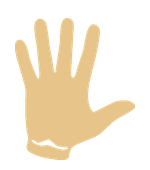
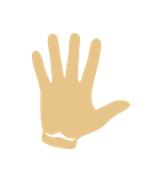
Dłoń: mniejsza i wyśrodkowana + usunięta stara poświata płatka na hover
Nowa dłoń dotykała lewej krawędzi swojego pola przy nadgarstku —
zmniejszona (większy margines PAD_X/PAD_Y) i przesunięta, żeby faktycznie
wyśrodkować wizualny środek ciężkości kształtu (kciuk wybrzusza się w
prawo, więc idealnie wyśrodkowany bounding box wygląda przesunięty
w lewo). Druga poprawka: hiromancja miała ten sam problem co wcześniej
astrologia — glow-hiromancja.png (poświata wnętrza STAREGO piktogramu)
na hover dawała widoczną szarą plamę na przezroczystej dziurze po
wyciętej dłoni. Wyłączona z renderowania, tak jak astrologia — hover-
feedback daje już puls icon-hiromancja przez PIKTOGRAMY_PULSUJACE.

Changed region(s): [[0.08, 0.0882, 0.9067, 0.9412], [0.72, 0.5882, 0.8, 0.6176]]

diff --git a/components/KoloKarmy.tsx b/components/KoloKarmy.tsx
@@ -168,11 +168,12 @@ export default function KoloKarmy({ ukonczone = WSZYSTKIE_SYSTEMY }: { ukonczone
       ))}
       <MoonStars box={SEGMENT_GAPY.astrologia} zlote={ukonczone.has("astrologia")} puls={aktywny === "astrologia"} />
 
-      {/* poświata pól o nieregularnym kształcie — astrologia pominięta: ta
-          maska to flood-fill WNĘTRZA starego kompasu (już wyciętego z bazy),
-          na przezroczystej dziurze dawała widoczny „cień"; hover-feedback
-          dla astrologii daje teraz puls <MoonStars> (patrz wyżej) */}
-      {[...KSZTALTNE].filter((id) => id !== "astrologia").map((id) => (
+      {/* poświata pól o nieregularnym kształcie — astrologia i hiromancja
+          pominięte: te maski to flood-fill WNĘTRZA starych piktogramów
+          (kompas/dłoń, już wyciętych z bazy), na przezroczystej dziurze
+          dawały widoczny „cień"; hover-feedback dla obu daje teraz puls
+          (MoonStars / icon-hiromancja przez PIKTOGRAMY_PULSUJACE) */}
+      {[...KSZTALTNE].filter((id) => id !== "astrologia" && id !== "hiromancja").map((id) => (
         <img key={`glow-${id}`} src={`/brand/glow-${id}.png`} alt=""
           className={`kk-glow-ksztalt${aktywny === id ? " kk-glow-aktywny" : ""}`}
           style={{ left: 0, top: 0, width: "100%", height: "100%" }} />
